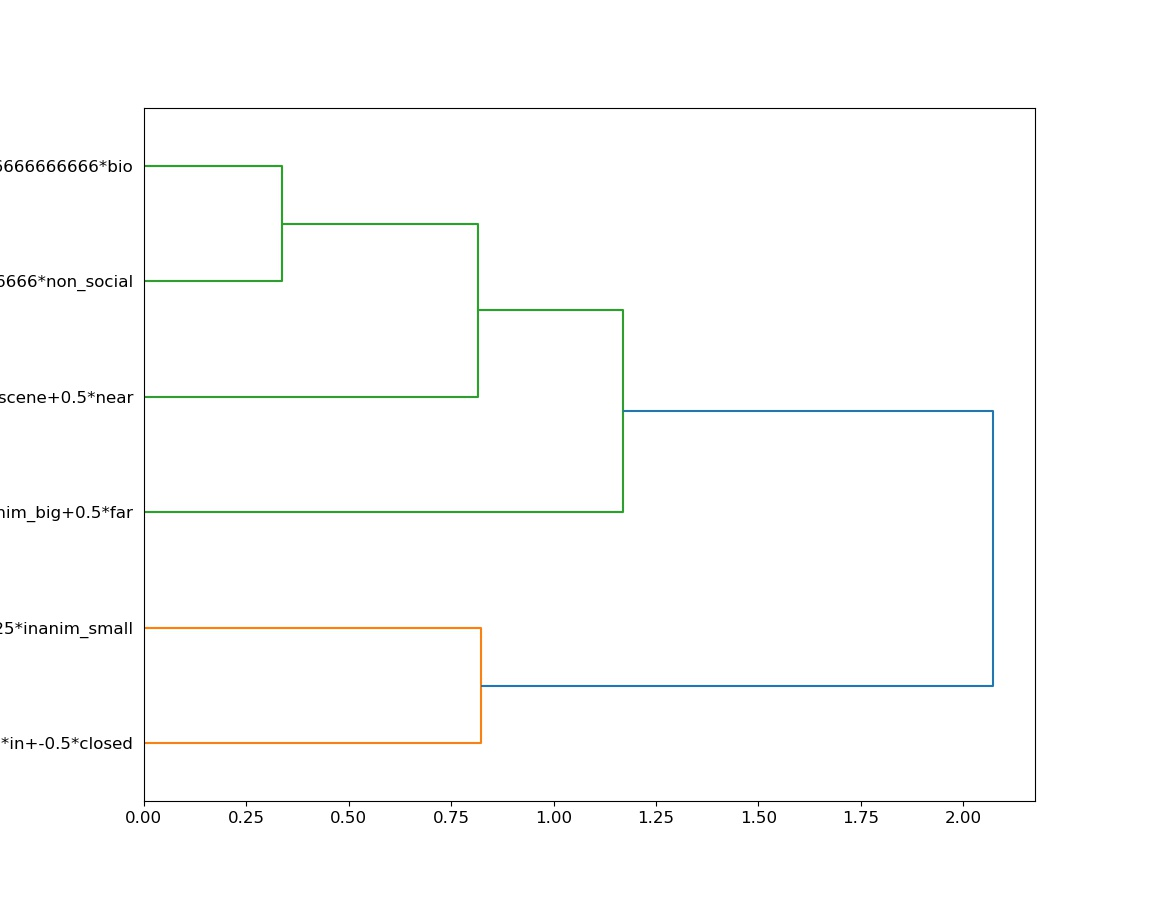
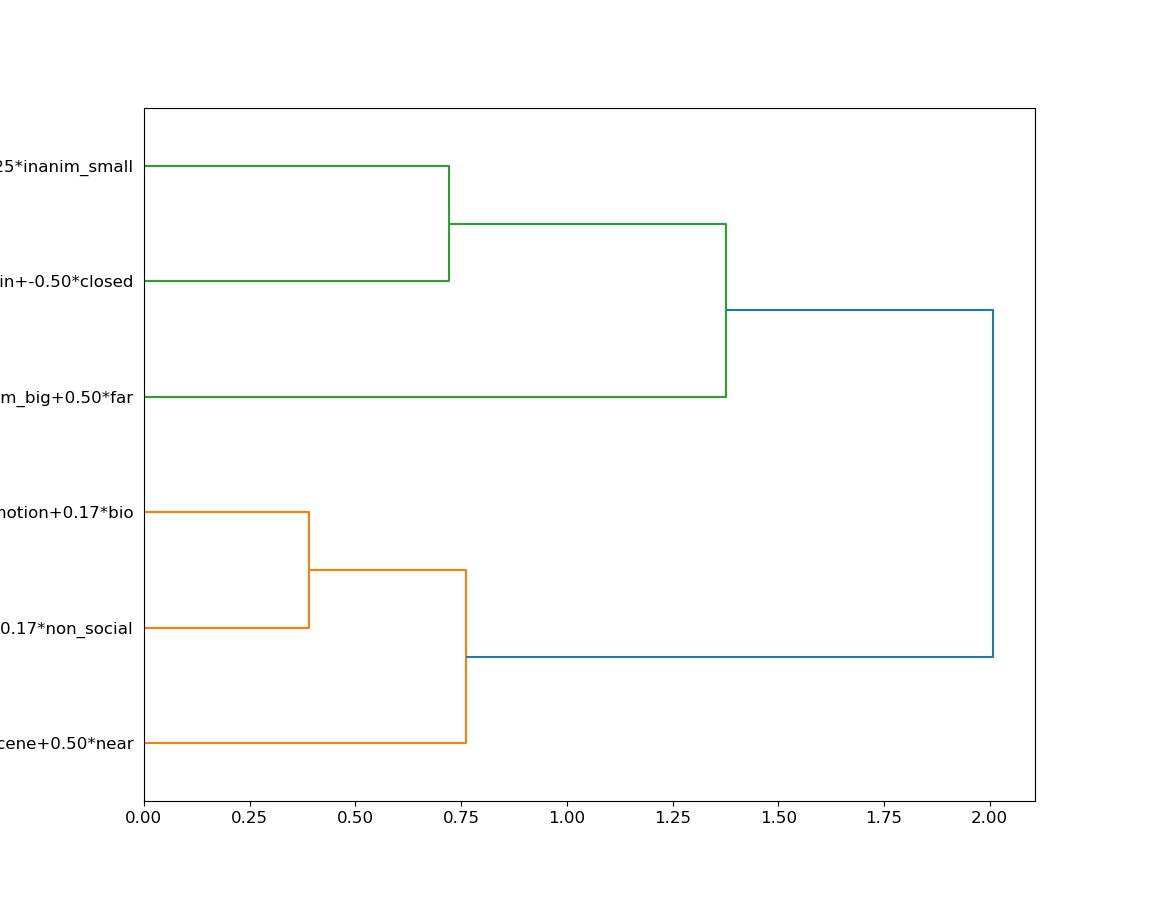
implementing single column alone power estimation

diff --git a/model_efficiency.py b/model_efficiency.py
@@ -15,7 +15,11 @@ from contrast_list import get_con_list
 
 from  joblib import Parallel, delayed
 
-def fit_model(X, events, signal_con, test_con, tr=1.0, sample_with_replacement=True):
+def fit_model(X, signal_con, test_con, tr=1.0, Xtest = None):
+    
+    if Xtest is None:
+        Xtest = X
+
     # How many noise samples?
     nsamples = 1000
 
@@ -44,7 +48,7 @@ def fit_model(X, events, signal_con, test_con, tr=1.0, sample_with_replacement=T
 
     # Fit GLM
     fmri_glm = FirstLevelModel(t_r=tr, hrf_model='spm', mask_img=False)
-    fmri_glm = fmri_glm.fit(img, design_matrices=[X])
+    fmri_glm = fmri_glm.fit(img, design_matrices=[Xtest])
 
     z_map = fmri_glm.compute_contrast(test_con, output_type='z_score')
     return z_map, Y
@@ -57,7 +61,7 @@ def get_multiplier(val):
     elif val == -1:
         return '-'
     else:
-        return f'{val}*'
+        return '%.2f*'%val
 
 
 def get_abbrev(val):
@@ -76,9 +80,29 @@ def get_abbrev(val):
         val = val.replace(k,v)
     return val
 
-def optimise_efficiency(events_in, todrop= None, con_list_type='boiled_down_5', nscans=None, tr=1, save_figures=False, all_trial_type=None):
-    
-    # Drop anything from events
+def optimise_efficiency(events_in, todrop= None, con_list_type='boiled_down_5', nscans=None, tr=1, save_figures=False, all_trial_type=None, design_matrix_type = 'all' ):
+    '''
+    Parameters
+        events_in: dict, with keys of movie name, and values a pandas dataframe describing the design
+        todrop: string, a movie to be dropped from events_in (used to make leave-on-out more convenient to parallelise)
+        con_list_type: string, see possible values in contrast_list.py
+        nscans: number of scans in design matrix, or None if calculate from events
+        tr: repetition time
+        save_figures: save outputs
+        event_type: 'movies', just used to label output files
+        design_matrix_type: ['all' | 'single'] 
+            'all' means put all columns into model no matter what contrast signal is
+            'percontrast' means only put contrast signal
+    Returns
+        zstat: estimated z statistic
+    '''
+
+    event_type='movies'
+
+    if not design_matrix_type == 'all':
+        event_type = event_type + '_desmat_percontrast'
+
+    # Drop anything requested from events 
     if todrop:
         events= events_in.copy()
         del(events[todrop])
@@ -87,21 +111,22 @@ def optimise_efficiency(events_in, todrop= None, con_list_type='boiled_down_5', 
 
     scale_type = 'peak2peak' # each column in design matrix
 
+    # List of all events
     if all_trial_type is None:
         all_trial_type = list(set().union(*[set(events[x].trial_type) for x in events]))         # List of all trial_type values
 
+    # Signal and nuisance contrasts
     con_list, nuisance_con, _ = get_con_list(events, con_list_type, all_trial_type)
 
     df = pd.DataFrame()
 
     # Get design matrix
-    X = get_design_matrix(
-            events, sample_with_replacement=False, tr=tr, n_scans=nscans, hrf='spm')
+    #  Used to generate signal, and if design_matrix_type = 'all', for test as well
+    X, stacked_events, n_scans = get_design_matrix(events, sample_with_replacement=False, tr=tr, hrf='spm')
 
     if len(set(all_trial_type) - set(X.columns))>0:
         print('Failing as not all columns in model!')
         return -np.inf
-
 
     if scale_type == 'peak2peak':
         # Scale each column in X to have range from 0 to 1
@@ -116,14 +141,15 @@ def optimise_efficiency(events_in, todrop= None, con_list_type='boiled_down_5', 
         plt.tight_layout()
         plt.savefig(f'model_efficiency_events_Xcorr.jpg')
 
-    # contrasted design matrix columns
+    # Contrasted design matrix columns
     Xcon=pd.DataFrame()
 
     for ind, trial_type in enumerate(con_list):
         if isinstance(trial_type, str):
             trial_type = {trial_type: 1}
 
-        # These columns are used to make the simulated brain signal. Includes nuisance_con, with random weighting.
+        # These columns are used to make the specificaiton for the simulated brain signal, in sig_con.
+        #   Includes nuisance_con, with random weighting from 0 to the contrast value
         sig_con = '+'.join([get_multiplier(val) + 'X.' +
                             key for key, val in trial_type.items()])
         if nuisance_con:
@@ -131,21 +157,38 @@ def optimise_efficiency(events_in, todrop= None, con_list_type='boiled_down_5', 
                 high=float(val))) + 'X.' + key for key, val in nuisance_con.items()])
 
         # Contrast for which result should be returned
+        #  This is the thing we measure
         test_con = '+'.join([get_multiplier(val) +
                              key for key, val in {**trial_type}.items()])
 
         # Used as labels in figures
+        #  A short form for this contrast, to use in figures
         con_label = '+'.join([get_multiplier(val) + get_abbrev(key)
                               for key, val in trial_type.items()])
 
-        if event_type == 'henson':
-            ev = {'oneev': events[ind]}
+
+
+        if design_matrix_type == 'percontrast':
+            # Select only events of trial_type in test_con
+            test_stacked_events = pd.DataFrame()
+            for tt in trial_type:
+                test_stacked_events = test_stacked_events.append(stacked_events[stacked_events.trial_type == tt])
+
+            # Make limited design matrix using these. Use same order for events
+            Xtest, _, _ = get_design_matrix(stacked_events = test_stacked_events, sample_with_replacement=False, tr=tr, n_scans=n_scans, hrf='spm')
+            if scale_type == 'peak2peak':
+                # Scale each non-nuisance column in Xtest to have range from 0 to 1
+                ttk=list(trial_type.keys())
+                Xtest[ttk]= (Xtest[ttk] - Xtest[ttk].min()) / (Xtest[ttk].max() - Xtest[ttk].min()) 
+
+        elif design_matrix_type == 'all':
+            Xtest = X
         else:
-            ev = events
+            raise(f'Unknown design_matrix_type {design_matrix_type}')
 
         # Fit GLM
         #  sample_with_replacement determines whether to do bootstrapping across movies
-        zstats, concol = fit_model(X, ev, sig_con, test_con, tr=tr, sample_with_replacement=False)
+        zstats, concol = fit_model(X, sig_con, test_con, Xtest = Xtest, tr=tr)
 
         vals = zstats.get_fdata()
 
@@ -164,6 +207,7 @@ def optimise_efficiency(events_in, todrop= None, con_list_type='boiled_down_5', 
         fig, ax = plt.subplots(nrows = 1, figsize=(11.5, 9))
         plt.grid(axis='x')
         sns.violinplot(data=df, x='con_label', y='values', ax=ax)
+        plt.plot([-0.5,len(con_list)], [0,0], 'r:')
         plt.xticks(rotation=90)
         plt.ylabel('z stat')
         plt.rcParams.update({'font.size': 12})
@@ -182,7 +226,7 @@ def optimise_efficiency(events_in, todrop= None, con_list_type='boiled_down_5', 
                 orientation='right'
             )
         order=dend['ivl']
-#        print(order)
+
         plt.savefig(f'model_efficiency_events_{event_type}_con_{con_list_type}_clusters.jpg')
 
         # Correlation matrix figure
@@ -202,23 +246,14 @@ def optimise_efficiency(events_in, todrop= None, con_list_type='boiled_down_5', 
 
     return zstat_mean
 
-if __name__ == '__main__':
-    event_type = 'movies'               # event list types
-                                        #   henson: use testing set of events from CBU web page (see test_efficiency_calc.py)
-                                        #   movies: use all movies
+def find_optimal_movies(nits=1, target_movies=8):
     con_list_type = ['all_trial_type','boiled_down_1','boiled_down_2','boiled_down_3', 'boiled_down_4', 'boiled_down_5'][5] 
-    # Get event model.
-    if event_type == 'henson':
-        original_events, des = get_henson_events()
-        nscans = 64
-    elif event_type == 'movies':
-        original_events = pd.read_pickle('./events_per_movie.pickle')
-        nscans = None # calculated from events
+    original_events = pd.read_pickle('./events_per_movie.pickle')
+    nscans = None # calculated from events
 
     res = pd.DataFrame()
 
     all_trial_type = list(set().union(*[set(original_events[x].trial_type) for x in original_events]))         # List of all trial_type values
-
     
     num_movies=len(original_events)
     zstat = optimise_efficiency(original_events)
@@ -226,10 +261,6 @@ if __name__ == '__main__':
 
     finals=[]
 
-    nits=100
-
-    target_movies = 8
-    
     # for testing, original_events = {k: original_events[k] for k in ['walle.mp4', 'cars.mp4', 'up_russell.mp4', 'real_cars.mp4', 'breakfast_smoothie.mp4', 'new_orleans.mp4', 'funny_tools.mp4', 'despicable_me.mp4', 'steamed_buns.mp4']}
 
     # Iteratively drop movies that give the lowest average z stat
@@ -249,5 +280,24 @@ if __name__ == '__main__':
     with open('model_effiency_select_movies.csv','w') as f:
         res.to_csv(f)
 
-    # ['rio_jungle_jig.mp4', 'bedtime.mp4', 'up_russell.mp4', 'ratatouille.mp4', 'real_cars.mp4', 'supermarket.mp4', 'funny_tools.mp4', 'dalmations.mp4', 'beachsong.mp4']
- #  ['walle.mp4', 'rio_jungle_jig.mp4', 'forest.mp4', 'cars.mp4', 'ratatouille.mp4', 'bathsong.mp4', 'up_kevin_nonsocial.mp4', 'supermarket.mp4', 'funny_tools.mp4']
+
+def all_movie_analysis(con_list_type= 'boiled_down_5', event_type = 'movies', design_matrix_type='all'):
+    # Get event model.
+    if event_type == 'henson':
+        events, des = get_henson_events()
+        nscans = 64
+    elif event_type == 'movies':
+        events = pd.read_pickle('./events_per_movie.pickle')
+        nscans = None # calculated from events
+
+
+    zstat = optimise_efficiency(events, save_figures=True, con_list_type = con_list_type, design_matrix_type=design_matrix_type)
+    print(f'All movies {zstat}')
+
+if __name__=='__main__':
+    # Find best subset of 8 movies, given contrasts 
+    # find_optimal_movies()
+
+    # Run once with figures
+    all_movie_analysis(con_list_type = 'all_trial_type', design_matrix_type = 'percontrast')
+    # all_movie_analysis(con_list_type = 'boiled_down_5', design_matrix_type = 'all')

diff --git a/model_design_matrix.py b/model_design_matrix.py
@@ -70,7 +70,7 @@ def get_df_events(all_events, rest_length = 2.0, sample_with_replacement=False):
     return df_all_videos, list_videos
 
 
-def get_design_matrix(events_dict, rest=0.00, hrf='spm', sample_with_replacement=False, tr=1.0, n_scans=None):
+def get_design_matrix(events_dict=None, rest=0.00, hrf='spm', stacked_events = None, sample_with_replacement=False, tr=1.0, n_scans=None):
     #make design matrix for stacked events
     #param events_dict: the dict of movie event files (keys mov_name, values dataframe)
     if not n_scans:
@@ -82,12 +82,13 @@ def get_design_matrix(events_dict, rest=0.00, hrf='spm', sample_with_replacement
     frame_times = np.arange(n_scans) * tr
 
     #each time stack_events is called, the order of movies is randomised
-    if sample_with_replacement:
-        stacked_events, list_videos = get_df_events(events_dict, rest_length=rest, sample_with_replacement=True)
-    else:
-        stacked_events, list_videos = get_df_events(events_dict, rest_length=rest)
+    if stacked_events is None:
+        if sample_with_replacement:
+            stacked_events, list_videos = get_df_events(events_dict, rest_length=rest, sample_with_replacement=True)
+        else:
+            stacked_events, list_videos = get_df_events(events_dict, rest_length=rest)
 
-    stacked_events = stacked_events.sort_values('onset', ignore_index= True)
+        stacked_events = stacked_events.sort_values('onset', ignore_index= True)
     
     with warnings.catch_warnings():
         warnings.filterwarnings("ignore", category=UserWarning)
@@ -99,7 +100,7 @@ def get_design_matrix(events_dict, rest=0.00, hrf='spm', sample_with_replacement
     #     print(f'video {idx} earliest {earliest} latest {latest}')
     
  #   print(stacked_events)
-    return X
+    return X, stacked_events, n_scans
 
 #Efficiency
 def efficiency_calc(X, contrast_vec):
